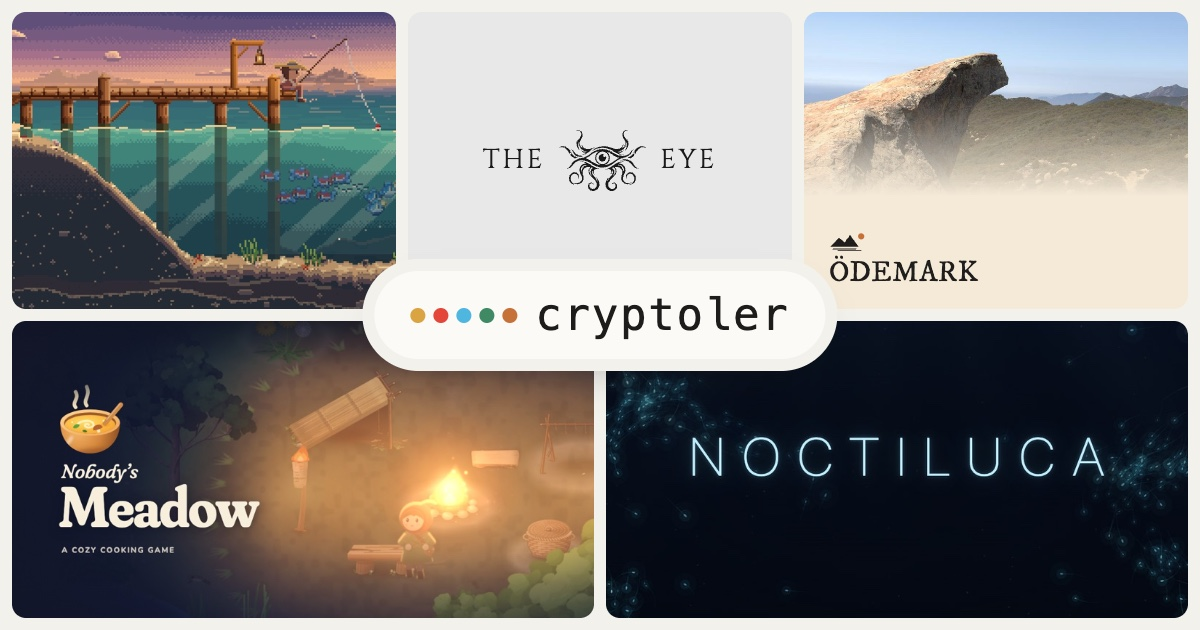
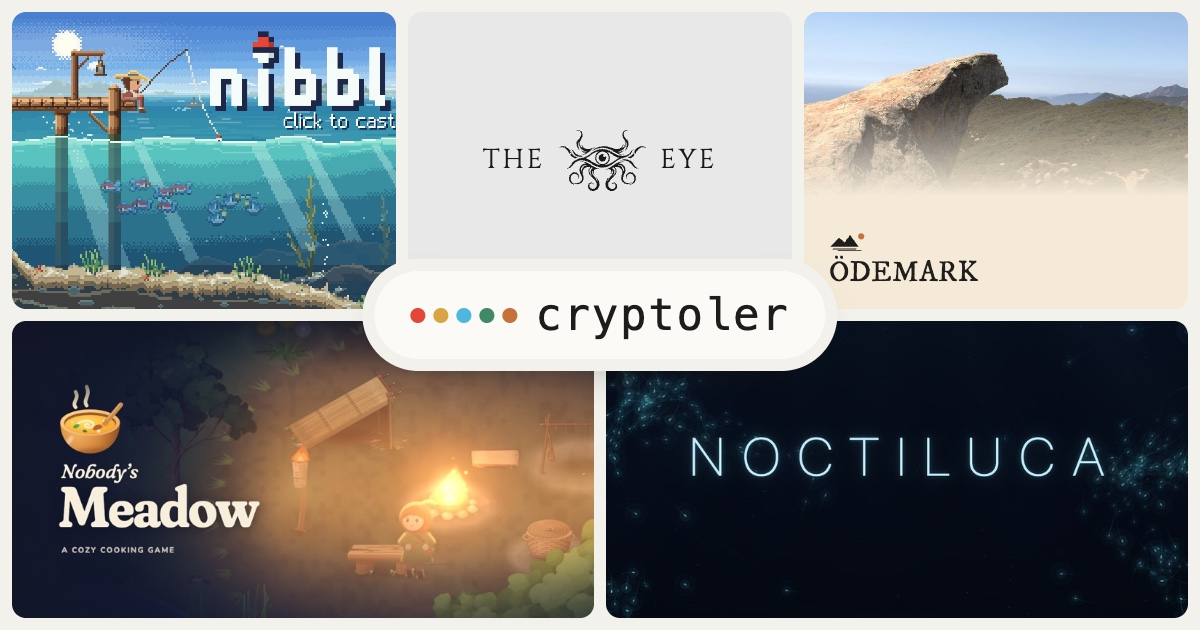
nibblet first, with its title screen on the card
The cover is the planned title screen: the wordmark and "click to cast"
over the morning scene. The link preview is redrawn with it.

Changed region(s): [[0.0, 0.0, 0.3392, 0.5127], [0.3392, 0.4825, 0.37, 0.5127]]

diff --git a/index.html b/index.html
@@ -4,7 +4,7 @@
 <meta charset="utf-8">
 <meta name="viewport" content="width=device-width, initial-scale=1, viewport-fit=cover">
 <title>cryptoler</title>
-<meta name="description" content="Nobody's Meadow, nibblet, Noctiluca, The Eye and Ödemark: five things made by cryptoler.">
+<meta name="description" content="nibblet, Nobody's Meadow, Noctiluca, The Eye and Ödemark: five things made by cryptoler.">
 <meta name="color-scheme" content="light dark">
 <meta name="theme-color" content="#f3f1ec" media="(prefers-color-scheme: light)">
 <meta name="theme-color" content="#141311" media="(prefers-color-scheme: dark)">
@@ -15,15 +15,15 @@
 <meta property="og:type" content="website">
 <meta property="og:site_name" content="cryptoler">
 <meta property="og:title" content="cryptoler">
-<meta property="og:description" content="Nobody's Meadow, nibblet, Noctiluca, The Eye and Ödemark: five things made by cryptoler.">
+<meta property="og:description" content="nibblet, Nobody's Meadow, Noctiluca, The Eye and Ödemark: five things made by cryptoler.">
 <meta property="og:url" content="https://www.cryptoler.net/">
-<meta property="og:image" content="https://www.cryptoler.net/og.jpg?v=4">
+<meta property="og:image" content="https://www.cryptoler.net/og.jpg?v=5">
 <meta property="og:image:type" content="image/jpeg">
 <meta property="og:image:width" content="1200">
 <meta property="og:image:height" content="630">
-<meta property="og:image:alt" content="Five cards: Nobody's Meadow, nibblet, Noctiluca, The Eye and Ödemark, with cryptoler in the middle">
+<meta property="og:image:alt" content="Five cards: nibblet, Nobody's Meadow, Noctiluca, The Eye and Ödemark, with cryptoler in the middle">
 <meta name="twitter:card" content="summary_large_image">
-<meta name="twitter:image" content="https://www.cryptoler.net/og.jpg?v=4">
+<meta name="twitter:image" content="https://www.cryptoler.net/og.jpg?v=5">
 <link rel="preconnect" href="https://fonts.googleapis.com">
 <link rel="preconnect" href="https://fonts.gstatic.com" crossorigin>
 <!-- Only the two faces the covers need: The Eye's Cinzel and Ödemark's IM Fell. The rest is the system's. -->
@@ -185,25 +185,25 @@
 <body>
 
 <header>
-  <h1><span class="dots" aria-hidden="true"><i style="background:#d9a441"></i><i style="background:#e4473a"></i><i style="background:#4fb6e0"></i><i style="background:#3f8a64"></i><i style="background:#c67139"></i></span>cryptoler</h1>
+  <h1><span class="dots" aria-hidden="true"><i style="background:#e4473a"></i><i style="background:#d9a441"></i><i style="background:#4fb6e0"></i><i style="background:#3f8a64"></i><i style="background:#c67139"></i></span>cryptoler</h1>
 </header>
 
 <main>
+  <a class="app nibblet" href="https://nibblet.cryptoler.net">
+    <div class="cover"><img src="assets/nibblet.jpg" alt="" width="1280" height="672"></div>
+    <div class="about">
+      <div class="top"><h2>nibblet</h2><span class="tag">Fishing game</span></div>
+      <p>A cozy pixel-art fishing game in the browser. Sit on the dock, watch the day go by and the weather turn, and wait for something rare to bite.</p>
+      <span class="url">nibblet.cryptoler.net</span>
+    </div>
+  </a>
+
   <a class="app meadow" href="https://meadow.cryptoler.net">
     <div class="cover"><img src="assets/meadow.jpg" alt="" width="800" height="420"></div>
     <div class="about">
       <div class="top"><h2>Nobody's Meadow</h2><span class="tag">Cooking game</span></div>
       <p>A cozy cooking game in the browser, made with the help of Claude. Forage by day, cook by firelight.</p>
       <span class="url">meadow.cryptoler.net</span>
-    </div>
-  </a>
-
-  <a class="app nibblet" href="https://nibblet.cryptoler.net">
-    <div class="cover"><img src="assets/nibblet.jpg" alt="" width="800" height="420"></div>
-    <div class="about">
-      <div class="top"><h2>nibblet</h2><span class="tag">Fishing game</span></div>
-      <p>A cozy pixel-art fishing game in the browser. Sit on the dock, watch the day go by and the weather turn, and wait for something rare to bite.</p>
-      <span class="url">nibblet.cryptoler.net</span>
     </div>
   </a>
 

diff --git a/tools/og.html b/tools/og.html
@@ -60,7 +60,7 @@
   <div class="cover"><img src="../assets/noctiluca.jpg" alt=""></div>
 </div>
 <div class="badge">
-  <span class="dots"><i style="background:#d9a441"></i><i style="background:#e4473a"></i><i style="background:#4fb6e0"></i><i style="background:#3f8a64"></i><i style="background:#c67139"></i></span>cryptoler
+  <span class="dots"><i style="background:#e4473a"></i><i style="background:#d9a441"></i><i style="background:#4fb6e0"></i><i style="background:#3f8a64"></i><i style="background:#c67139"></i></span>cryptoler
 </div>
 </body>
 </html>

diff --git a/README.md b/README.md
@@ -4,8 +4,8 @@ The front page of cryptoler.net: one static page linking to each project on its 
 
 | Project | Address | Hosted on |
 |---|---|---|
-| Nobody's Meadow | https://meadow.cryptoler.net | GitHub Pages, repo `askel-dev/aeon-garden` |
 | nibblet | https://nibblet.cryptoler.net | Vercel, repo `askel-dev/long-shot` |
+| Nobody's Meadow | https://meadow.cryptoler.net | GitHub Pages, repo `askel-dev/aeon-garden` |
 | Noctiluca | https://boids.cryptoler.net | GitHub Pages, repo `askel-dev/NOCTILUCA` |
 | The Eye | https://eye.cryptoler.net | Vercel, repo `askel-dev/the-eye` (data and logins in Supabase) |
 | Ödemark | https://odemark.cryptoler.net | Oracle Cloud server with Caddy, repo `askel-dev/odemark` |
@@ -17,7 +17,7 @@ The domain's DNS lives in Vercel (Namecheap only holds the registration). Vercel
 subdomain by default, so a project hosted elsewhere needs its own record there: `odemark` is an A record
 to the Oracle server, `meadow` and `boids` CNAMEs to `askel-dev.github.io`.
 
-Each card's cover is its project's own first screen in miniature: the meadow's share picture, nibblet's opening scene at dusk (the production build at 1280×720, key hint hidden, bottom 48 px cropped),
+Each card's cover is its project's own first screen in miniature: the meadow's share picture, nibblet's planned title screen (the wordmark over the morning scene, `?h=9.5&x=-90`, as in long-shot's `artifacts/brand-study/round-2-bobber.html`),
 Noctiluca's splash over the live flock (captured from the page, prompt hidden), The Eye's login lockup (`assets/eye.svg`, its logo fixed to black), Ödemark's front page. To add a
 project, copy a `.app` card and give it a colour of its own in `:root`.
 
